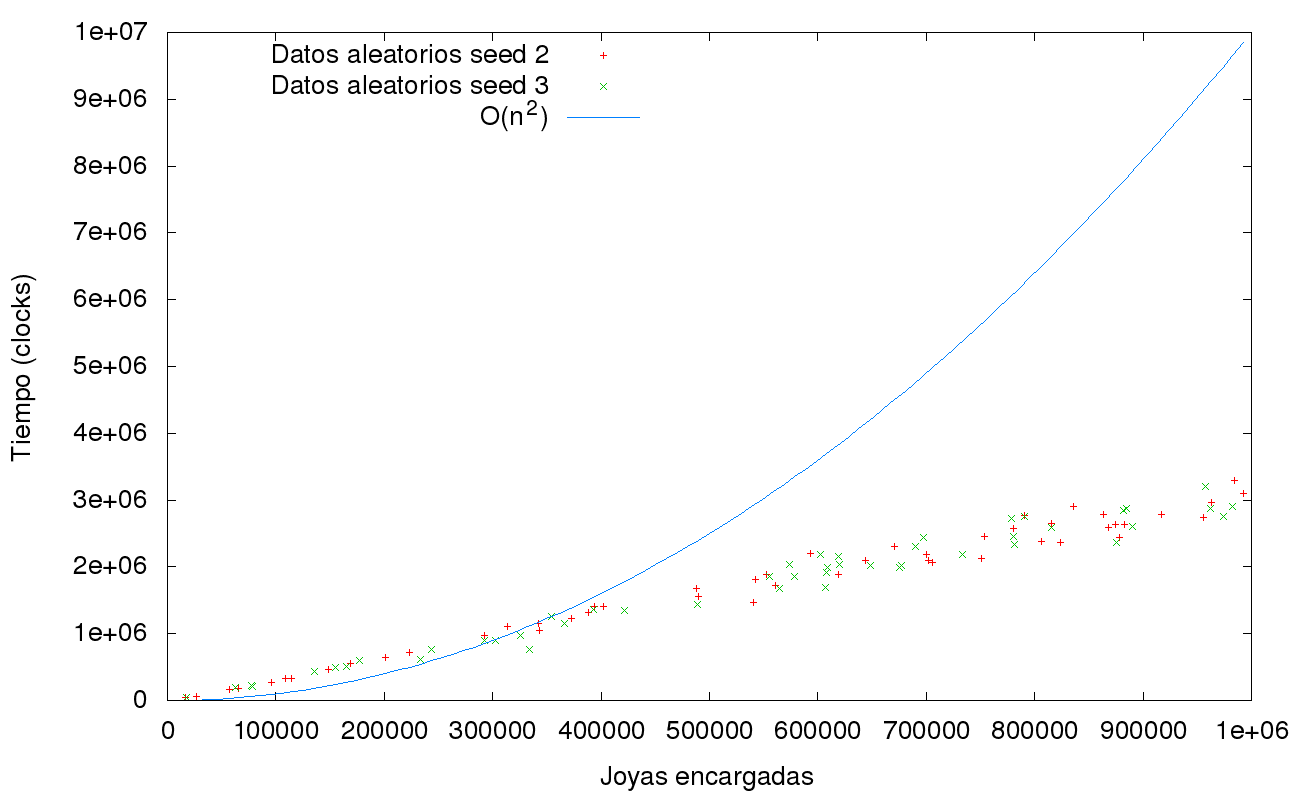
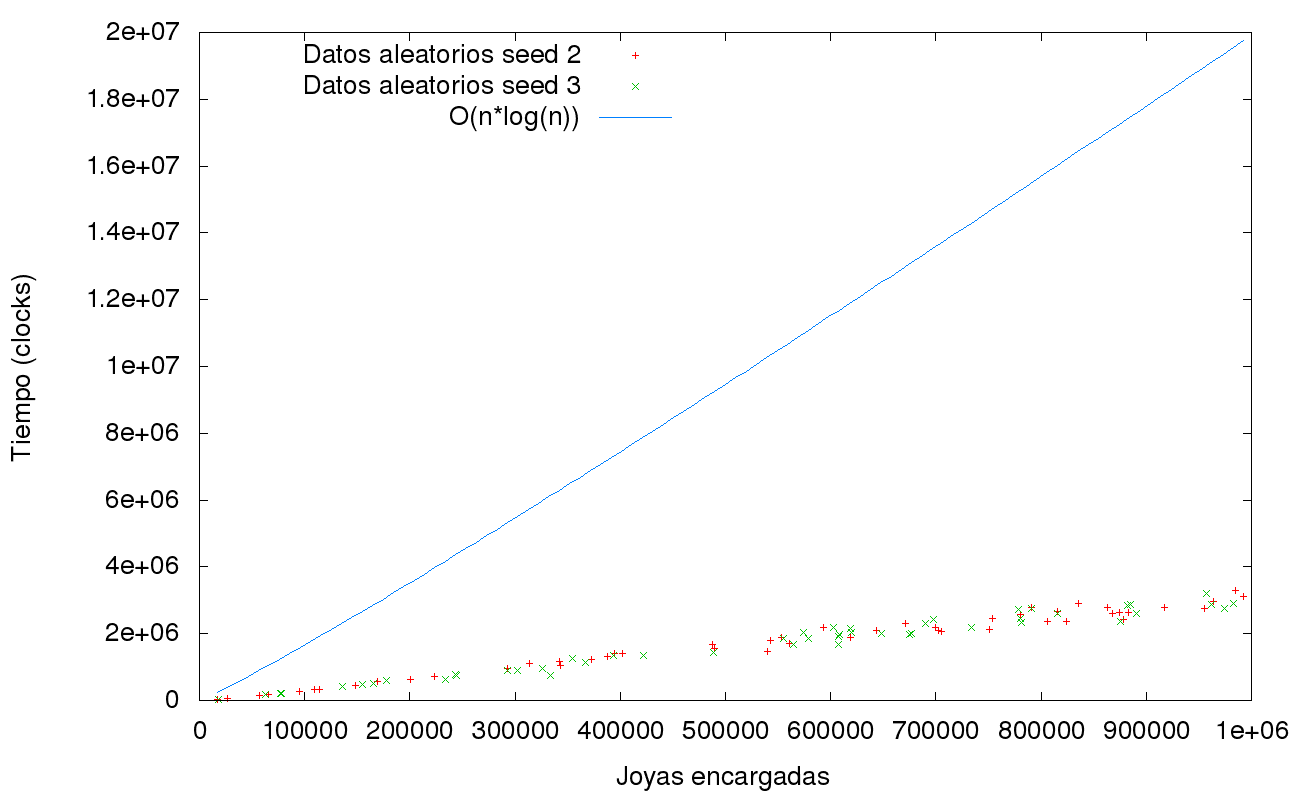
arreglo ej1 infor

diff --git a/tp1/informe/ej1.tex b/tp1/informe/ej1.tex
@@ -47,8 +47,11 @@ Antes de empezar ordenamos la lista, ya que podr\'ia venir desordenada; as\'i qu
 
 Para comenzar notemos que, de todo el universo de posibles intervalos, estamos considerando s\'olo los que comienzan con cada elemento de la lista; es decir que si nuestra lista es [1, 3, 5, 6] y nuestro rango es 2, s\'olo vamos a mirar los intervalos [1,2], [3,4], [5,6] y [6, 7].\\
 Demostremos entonces que con los intervalos que estamos considerando alcanza ya que entre ellos se encuentra el que tiene la sublista m\'as larga.\\
-Dados un offset $o$ y una lista ordenada de manera creciente $l$ y sea $S$ el subconjunto de posibles sublistas expresada como % $S={s_i = [e \rightarrow l| l_i \leqslant e \leqslant l_i + o]} \forall 0 \leqslant i \leqslant long(l)$.
-Es decir, es un conjunto de listas tal que todos los elementos de cada lista $s_i$ pertenecen a $l$ y est\'an dentro del rango $l_i$-$l_i + o$.\\
+Dados un offset $o$ y una lista ordenada de manera creciente $l$ y sea $S$ el subconjunto de posibles sublistas expresada como: \\
+
+$ S = \left\lbrace s_i = \left[ e \rightarrow l | l_i \leq e \leq l_i + o \right] \right\rbrace \forall 0 \leq i \leq long(l) $ \\ 
+\\
+Es decir, es un conjunto de listas tal que todos los elementos de cada lista $s_i$ pertenecen a $l$ y est\'an dentro del rango $l_i$-$l_i + o$ \\
 Supongamos ahora que existe una lista ordenada $a$ que cumple con lo pedido y que es \'optima. Y supongamos adem\'as que esta lista \'optima no est\'a en S; es decir que no est\'a siendo considerada por nuestra resoluci\'on.\\
 Sabemos que, como la lista es finita y los n\'umeros que pueden entrar en los intervalos est\'an ah\'i, entonces \\
 ($\forall$ elem $\in$ a) elem $\in$ l, \\
@@ -61,7 +64,7 @@ $inicio$ $\leq$ $a_1$ $\Leftrightarrow$ $inicio + o$ $\leq$ $a_1 + o$
 (aclarar en algun lado que son todos enteros positivos para poder asumir esto).\\
 Miremos ambos casos:
 \begin{itemize}
-\item %inicio $\eq a_1$. En este caso a pertenecer\'ia a S, ya que considera como inicio del rango a un elemento de l.
+\item inicio = $a_1$. En este caso a pertenecer\'ia a S, ya que considera como inicio del rango a un elemento de l.
 \item 
 \end{itemize}
 

diff --git a/tp1/informe/ej2.tex b/tp1/informe/ej2.tex
@@ -77,8 +77,9 @@ Analizaremos a continuaci\'on la complejidad del algoritmo propuesto utilizando 
 \item ordenar joyas de mayor a menor por joya.porcentaje\_peso , $O(n*log(n))$
 \end{itemize}
 
-
 Notar que n es la cantidad de trabajos/joyas a confeccionar y que se simplific\'o el algoritmo para que fuera m\'as simple ver la complejidad.
+
+Estamos utilizando el algoritmo de sorting de la STL asociado a las listas, el mismo garantiza una complejidad de O(n*log(n)) como se puede observar en su documentaci\'on: http://www.cplusplus.com/reference/list/list/sort/
 
 Como se puede ver en el seguimiento, la complejidad del algoritmo elegido es O(n*log(n)) ya que es la complejidad predominante.\\
 
